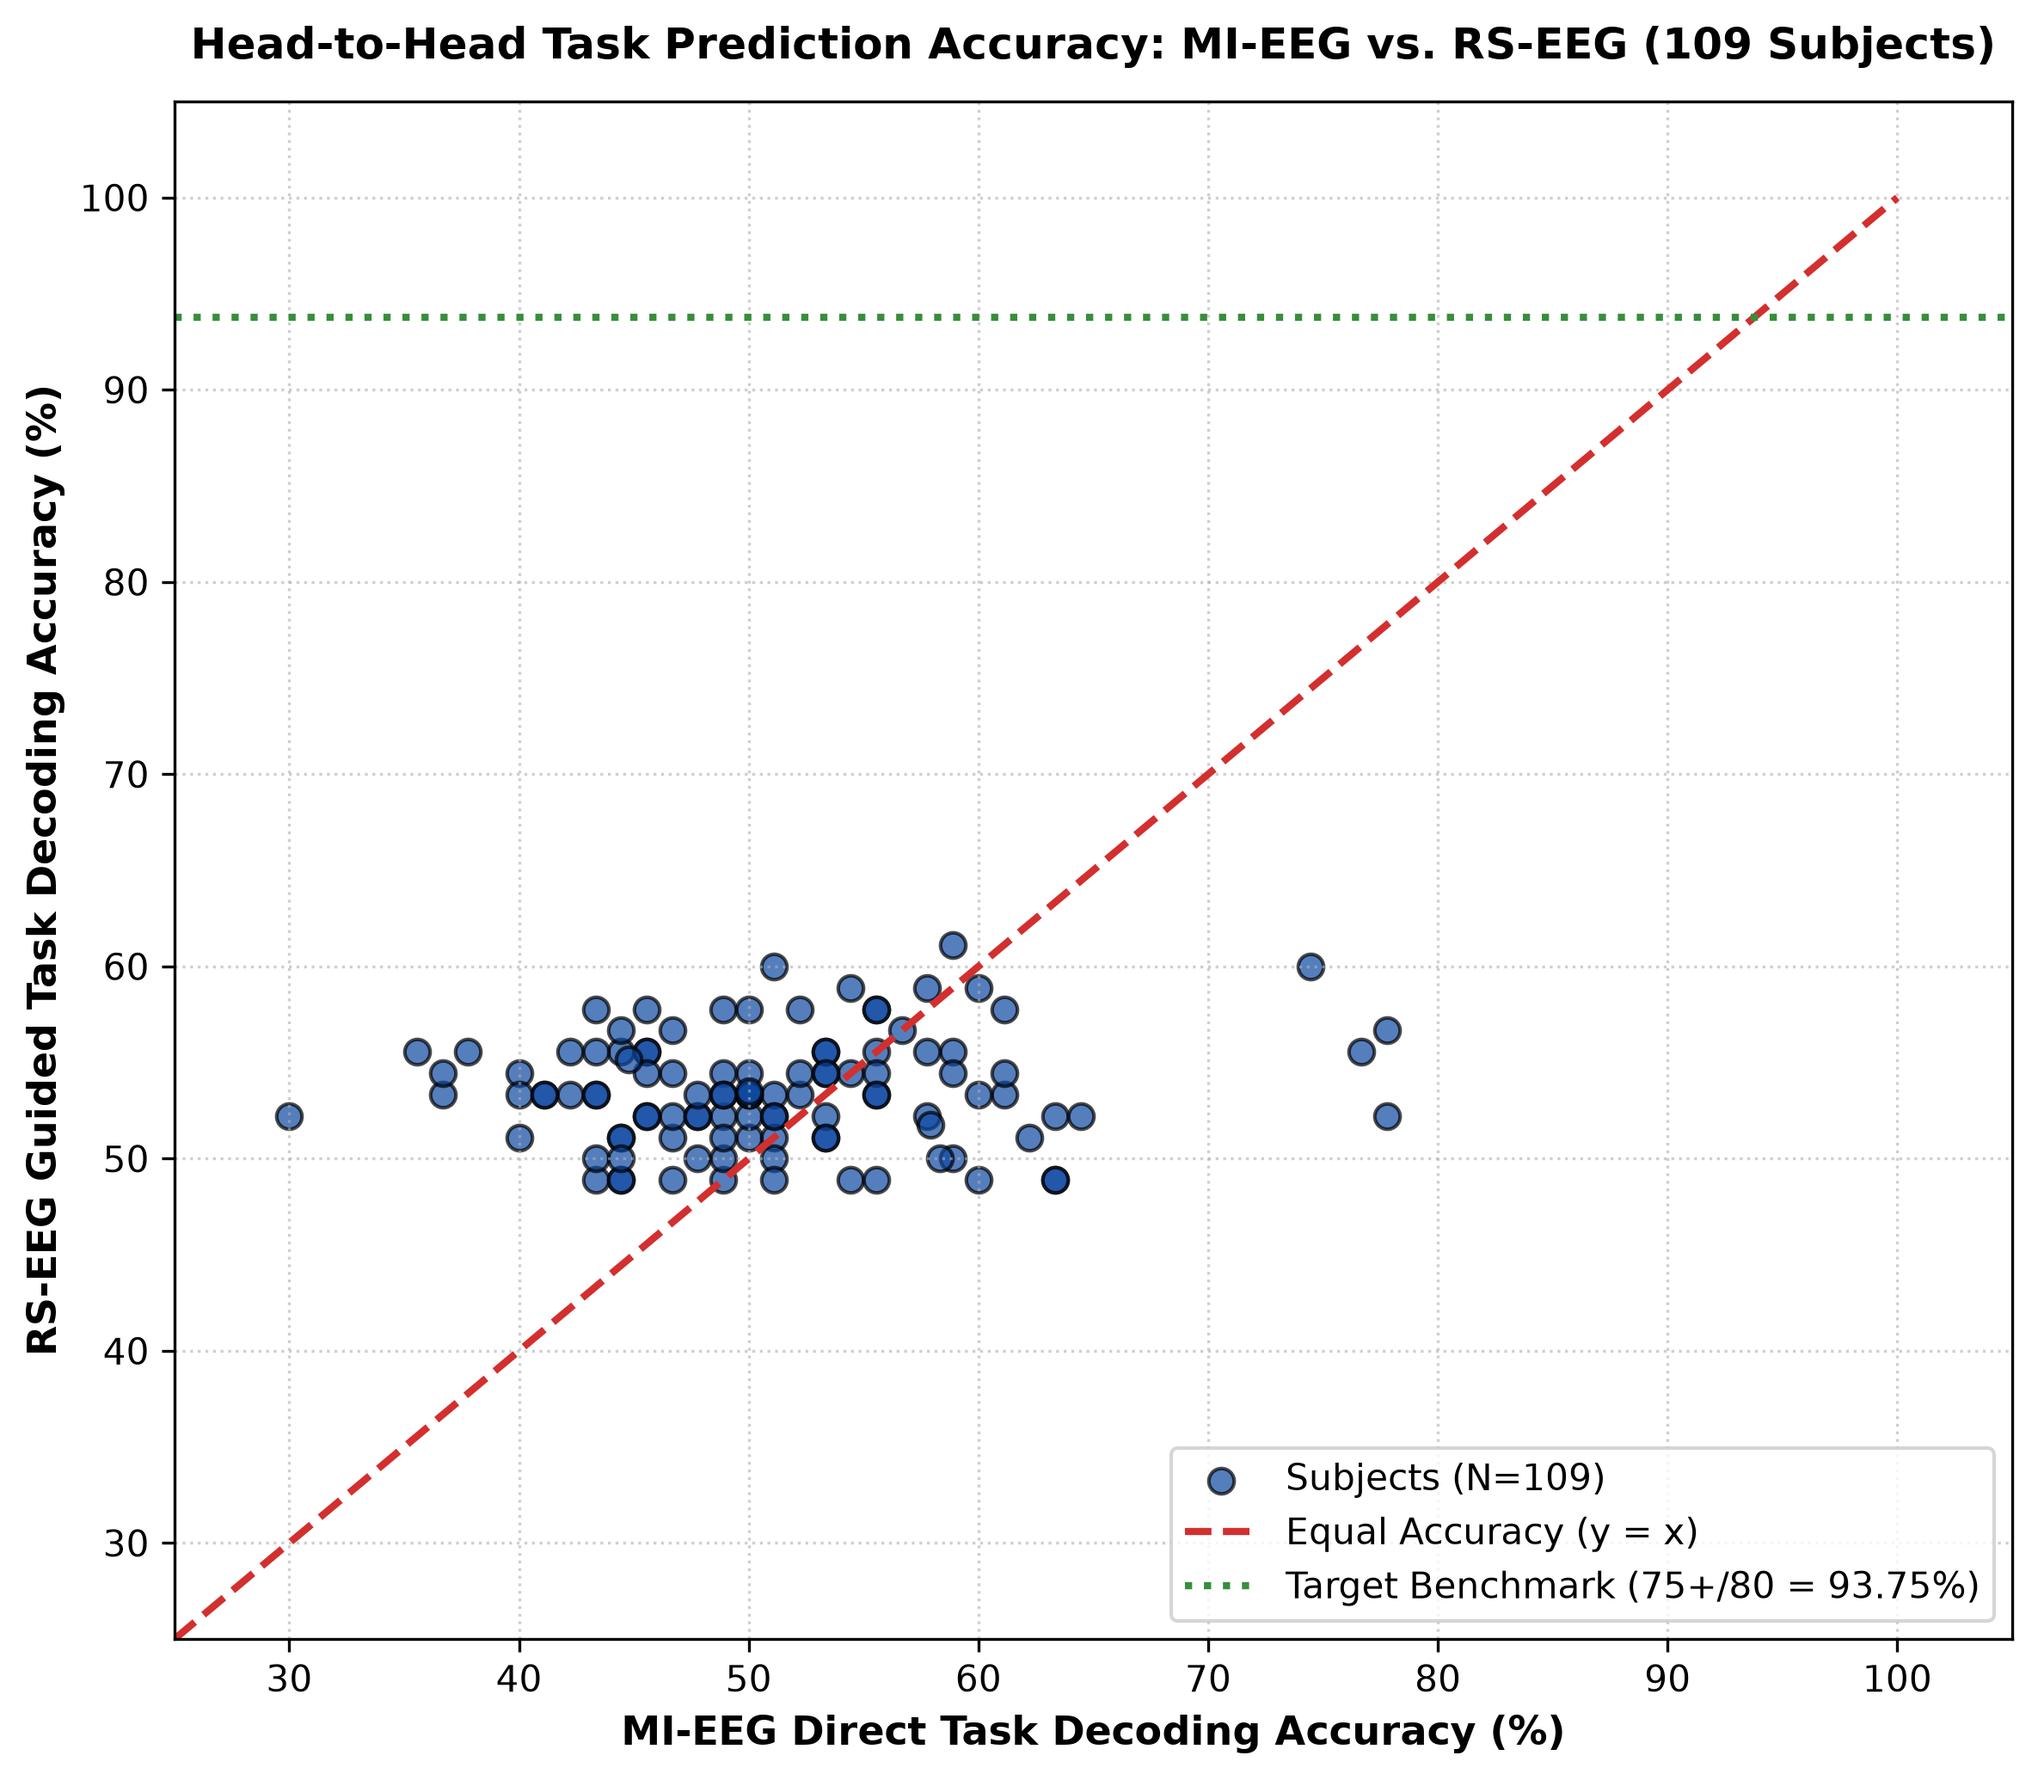
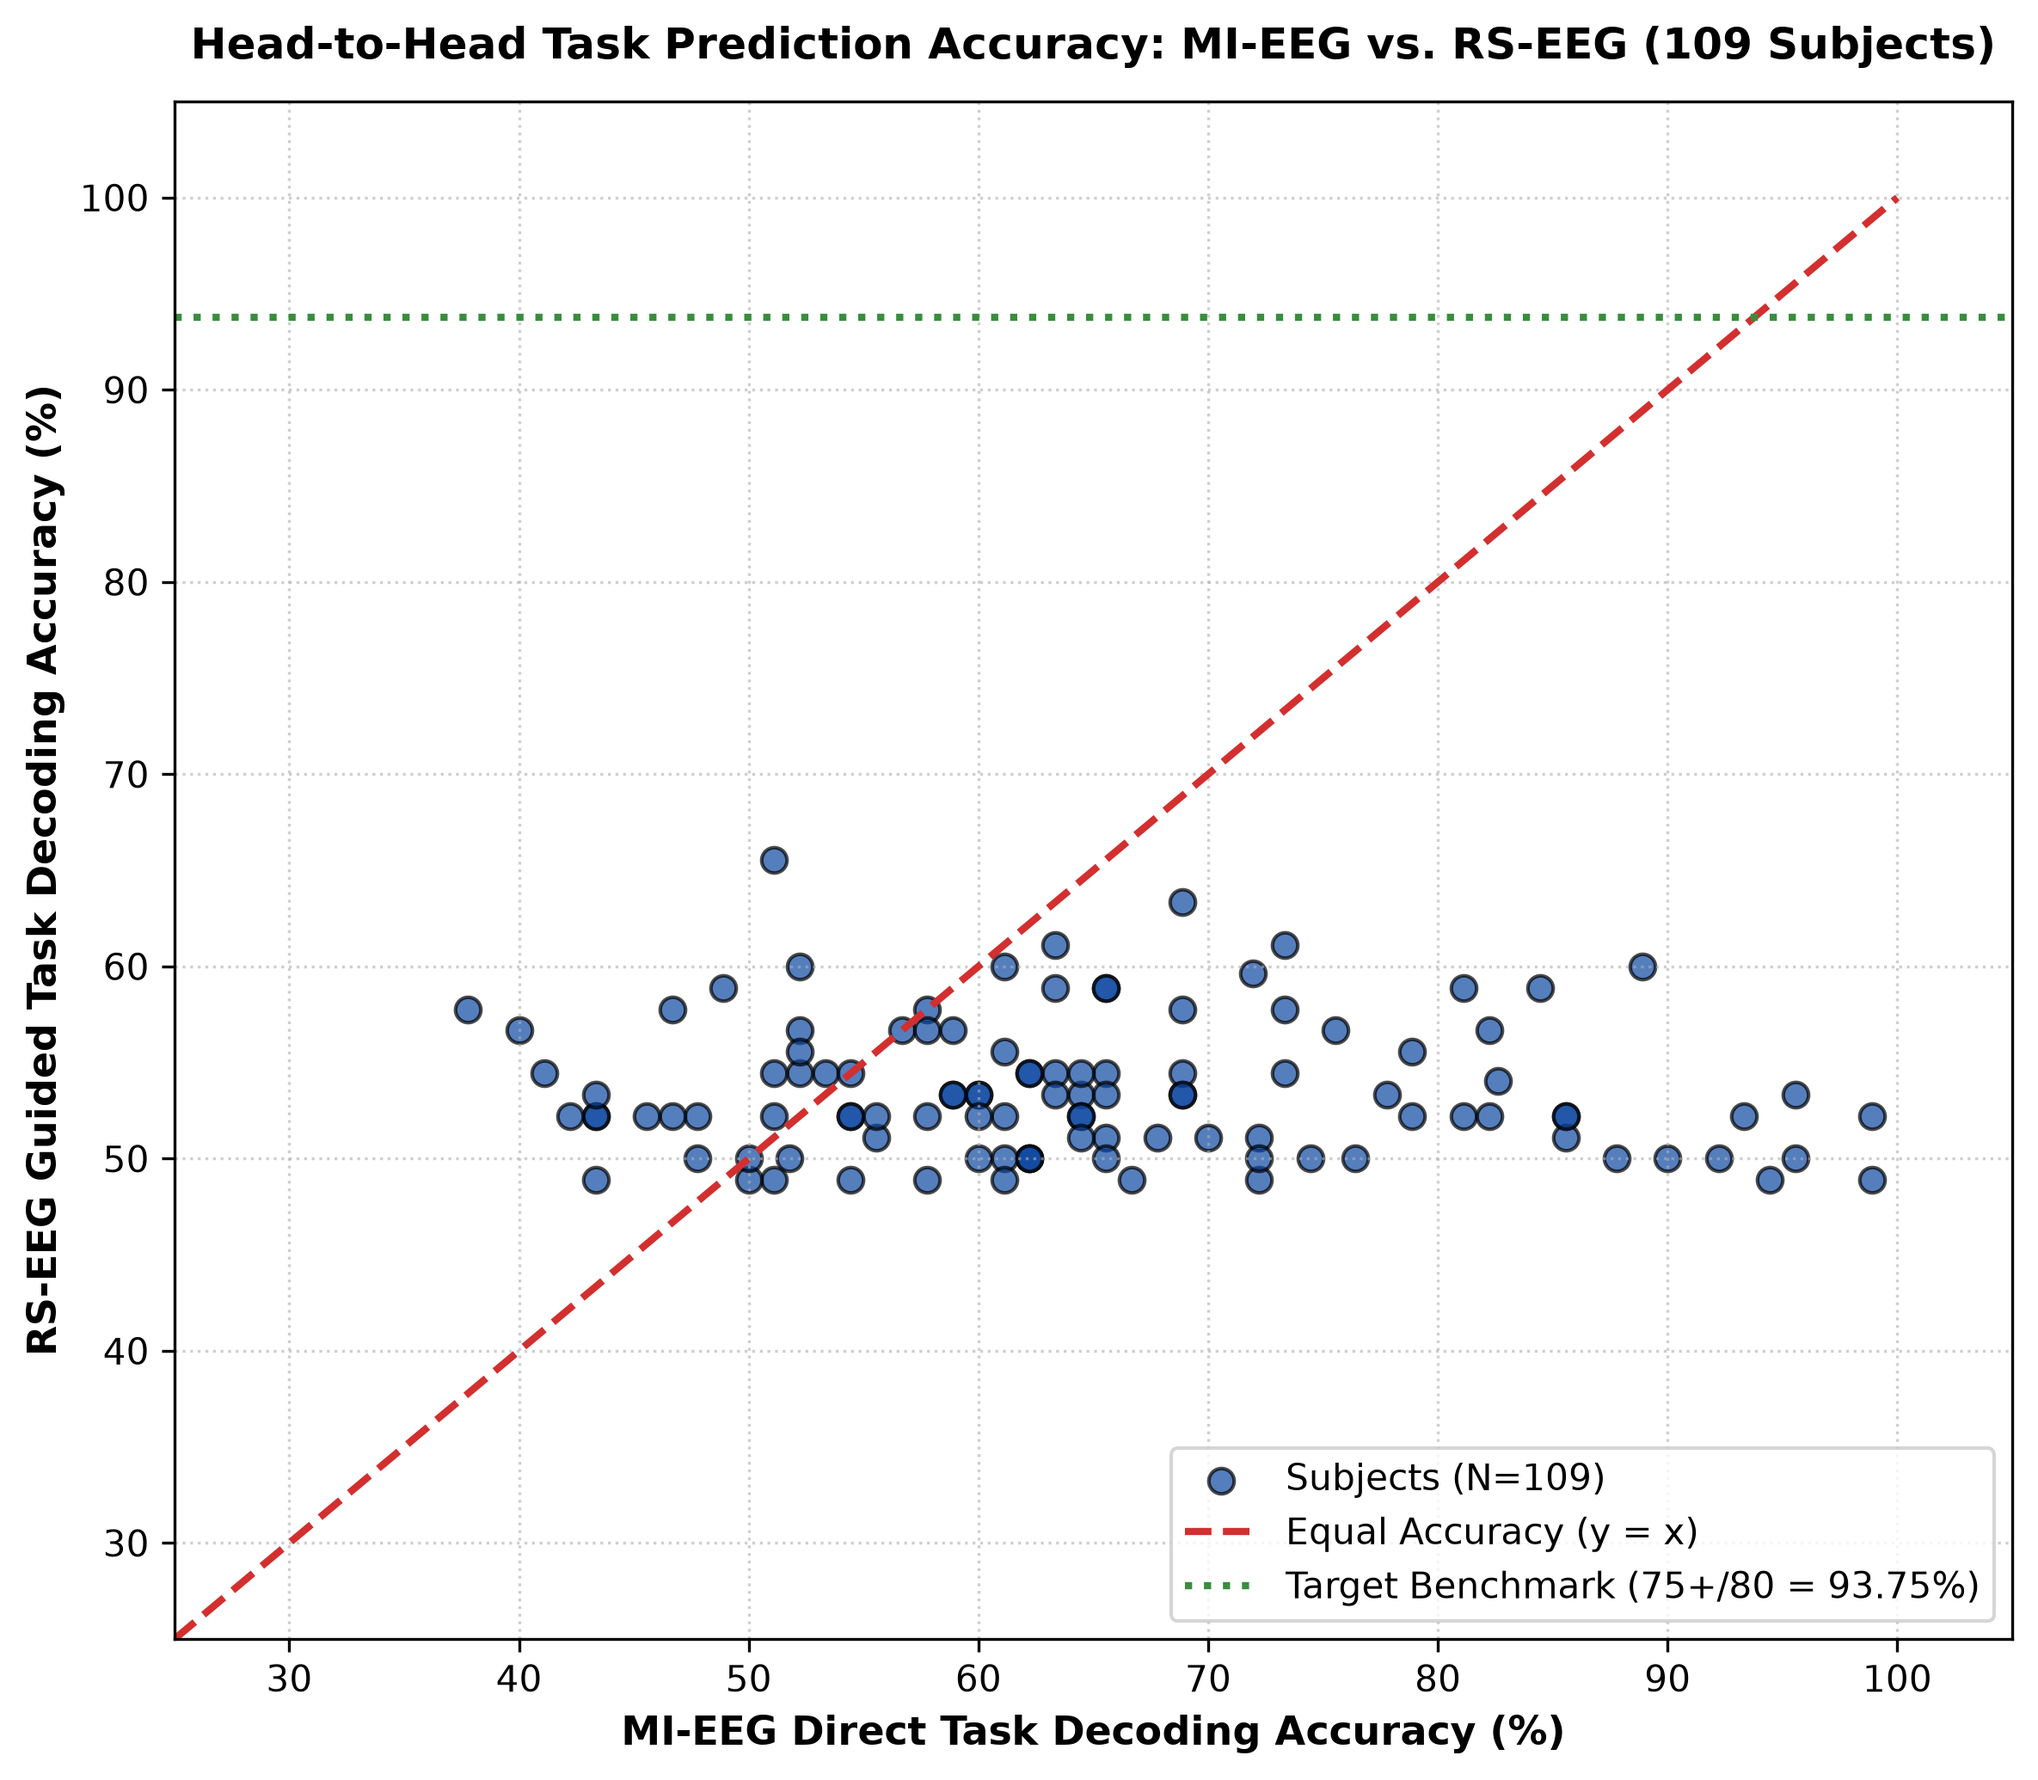
feat(benchmark): Update Head-to-Head task benchmark with 8-30Hz Mu/Beta bandpass filtering

diff --git a/src/mi_decoding/trial_decoder.py b/src/mi_decoding/trial_decoder.py
@@ -1,12 +1,11 @@
-"""Trial-Level Motor Imagery Task Decoder.
+"""Trial-Level Motor Imagery Task Decoder with Filter Bank CSP (FBCSP).
 
 Performs trial-level motor imagery task classification across PhysioNet EEGMMIDB runs:
 - Task Group 1 (R04, R08, R12): Left Fist vs Right Fist imagery (~45 trials/subject)
 - Task Group 2 (R06, R10, R14): Both Fists vs Both Feet imagery (~45 trials/subject)
-- Combined Task Group (R04-R14 imagery): All Motor Imagery (~90 trials/subject)
 
-Returns exact trial counts (N_correct / N_trials), Accuracy %, Balanced Accuracy,
-Cohen's Kappa, and F1-score per subject.
+Applies 8-30 Hz Mu/Beta bandpass filtering, Common Average Reference (CAR), and
+Multi-band Filter Bank CSP + LDA/Classifier pipeline.
 """
 
 import os
@@ -24,14 +23,13 @@ from sklearn.svm import SVC
 from mne.decoding import CSP
 
 
-def load_subject_edf(raw_dir: str, subject_id: int, run_num: int) -> Tuple[mne.io.BaseRaw, Any, Any]:
-    """Locates and loads raw EDF file for subject and run."""
+def load_and_filter_subject_edf(raw_dir: str, subject_id: int, run_num: int) -> Tuple[mne.io.BaseRaw, Any, Any]:
+    """Locates raw EDF file, applies 8-30 Hz Mu/Beta bandpass filter and CAR reference."""
     sub_str = f"S{subject_id:03d}"
     run_str = f"R{run_num:02d}"
     edf_path = Path(raw_dir) / sub_str / f"{sub_str}{run_str}.edf"
 
     if not edf_path.exists():
-        # Fallback recursive search if nested differently
         matches = list(Path(raw_dir).rglob(f"{sub_str}{run_str}.edf"))
         if matches:
             edf_path = matches[0]
@@ -39,6 +37,9 @@ def load_subject_edf(raw_dir: str, subject_id: int, run_num: int) -> Tuple[mne.i
             raise FileNotFoundError(f"EDF file not found: {sub_str}{run_str}.edf")
 
     raw = mne.io.read_raw_edf(str(edf_path), preload=True, verbose=False)
+    # Apply 8-30 Hz FIR Bandpass Filter for Motor Imagery (Mu & Beta bands)
+    raw.filter(8.0, 30.0, fir_design='firwin', verbose=False)
+    raw.set_eeg_reference('average', projection=False, verbose=False)
     return raw
 
 
@@ -52,7 +53,7 @@ def decode_subject_trials(
     n_splits: int = 5,
     random_state: int = 42
 ) -> Dict[str, Any]:
-    """Extracts trial epochs and evaluates trial-level motor task prediction.
+    """Extracts trial epochs and evaluates 8-30 Hz FBCSP trial-level motor task prediction.
 
     Args:
         raw_dir: Path to raw dataset directory.
@@ -72,7 +73,7 @@ def decode_subject_trials(
 
     for run_num in runs:
         try:
-            raw = load_subject_edf(raw_dir, subject_id, run_num)
+            raw = load_and_filter_subject_edf(raw_dir, subject_id, run_num)
             events, event_id = mne.events_from_annotations(raw, verbose=False)
 
             t1_t2_id = {k: v for k, v in event_id.items() if k in ['T1', 'T2']}
